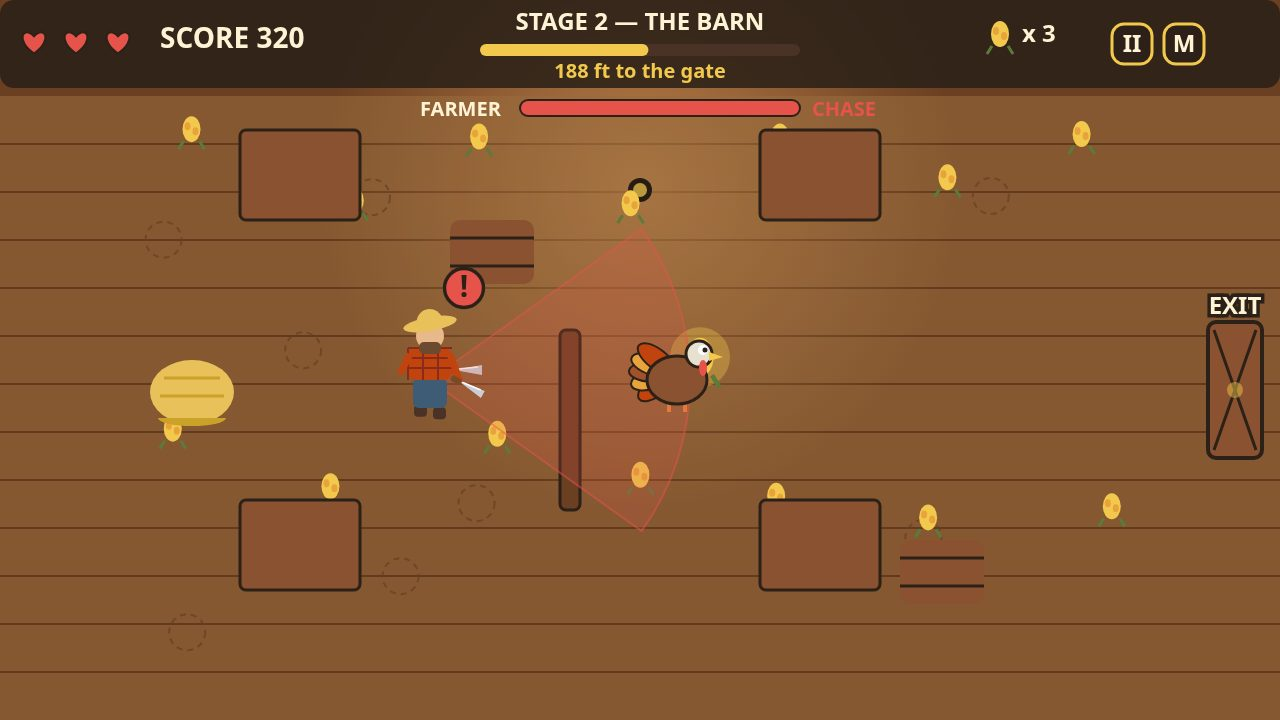
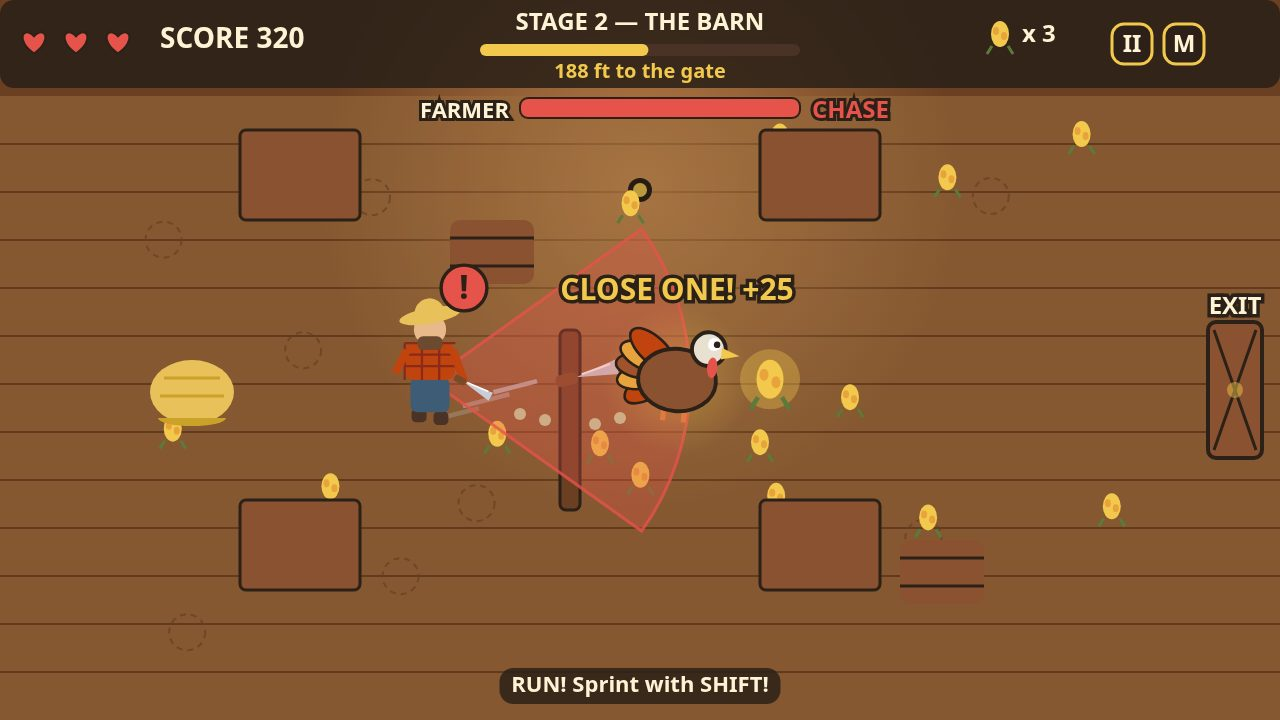
v2: re-stage cover, add SEARCH frame, sharper cone+meter (QC LAYAK)

diff --git a/game/src/render.js b/game/src/render.js
@@ -30,11 +30,11 @@ export function createRenderer(canvas) {
     ctx.fillText(s, x, y);
   }
 
-  function outlineText(s, x, y, size, fill, stroke, align) {
+  function outlineText(s, x, y, size, fill, stroke, align, lw) {
     ctx.font = 'bold ' + size + 'px system-ui, sans-serif';
     ctx.textAlign = align || 'left';
     ctx.textBaseline = 'alphabetic';
-    ctx.lineWidth = 7;
+    ctx.lineWidth = lw || 7;
     ctx.strokeStyle = stroke;
     ctx.strokeText(s, x, y);
     ctx.fillStyle = fill;
@@ -114,6 +114,27 @@ export function createRenderer(canvas) {
         ctx.ellipse(cx + i * 14, s.y + 4, 7, 12, i * 0.3, 0, Math.PI * 2);
         ctx.fill();
       }
+      if (t.peekBig) {
+        // Shot-gated: head + beak + wattle + eye peeking over the spot's
+        // top edge, so hiding reads at contact-sheet size.
+        ctx.fillStyle = PALETTE.turkeyHead;
+        ctx.beginPath(); ctx.arc(cx, s.y - 4, 13, 0, Math.PI * 2); ctx.fill();
+        ctx.lineWidth = 3;
+        ctx.strokeStyle = PALETTE.panel;
+        ctx.stroke();
+        ctx.fillStyle = PALETTE.beak;
+        ctx.beginPath();
+        ctx.moveTo(cx + t.faceX * 10, s.y - 6);
+        ctx.lineTo(cx + t.faceX * 24, s.y - 1);
+        ctx.lineTo(cx + t.faceX * 10, s.y + 3);
+        ctx.closePath(); ctx.fill();
+        ctx.fillStyle = PALETTE.wattle;
+        ctx.beginPath(); ctx.ellipse(cx + t.faceX * 4, s.y + 10, 4, 8, 0, 0, Math.PI * 2); ctx.fill();
+        ctx.fillStyle = PALETTE.eyeWhite;
+        ctx.beginPath(); ctx.arc(cx + t.faceX * 4, s.y - 8, 5, 0, Math.PI * 2); ctx.fill();
+        ctx.fillStyle = PALETTE.pupil;
+        ctx.beginPath(); ctx.arc(cx + t.faceX * 6, s.y - 8, 2.5, 0, Math.PI * 2); ctx.fill();
+      }
       ctx.fillStyle = PALETTE.eyeWhite;
       ctx.beginPath(); ctx.arc(cx - 9, s.y + 12, 5, 0, Math.PI * 2); ctx.fill();
       ctx.beginPath(); ctx.arc(cx + 9, s.y + 12, 5, 0, Math.PI * 2); ctx.fill();
@@ -126,7 +147,8 @@ export function createRenderer(canvas) {
     ctx.save();
     ctx.translate(t.x, t.y - lift);
     if (t.sprinting) ctx.rotate(t.faceX * 0.1);
-    ctx.scale(1, stretch);
+    const tScale = t.scale || 1;
+    ctx.scale(tScale, stretch * tScale);
     const step = t.moving ? Math.sin(t.bob) * 8 : 0;
     // Legs.
     ctx.strokeStyle = PALETTE.turkeyFeet;
@@ -178,6 +200,8 @@ export function createRenderer(canvas) {
     const searching = f.state === 'SEARCH';
     ctx.save();
     ctx.translate(f.x, f.y);
+    const fScale = f.scale || 1;
+    ctx.scale(fScale, fScale);
     // Vision cone is drawn by the caller before the farmer.
     const bob = chasing ? Math.sin(time * 14) * 3 : Math.sin(time * 4) * 1;
     // Boots.
@@ -238,11 +262,11 @@ export function createRenderer(canvas) {
       ctx.translate(f.x + 34, f.y - 92);
       ctx.scale(pop, pop);
       ctx.fillStyle = f.bubble === '!' ? PALETTE.danger : PALETTE.gold;
-      ctx.beginPath(); ctx.arc(0, 0, 17, 0, Math.PI * 2); ctx.fill();
+      ctx.beginPath(); ctx.arc(0, 0, 20, 0, Math.PI * 2); ctx.fill();
       ctx.lineWidth = 3;
       ctx.strokeStyle = PALETTE.panel;
       ctx.stroke();
-      text(f.bubble, 0, 8, 26, PALETTE.panel, 'center');
+      text(f.bubble, 0, 10, 30, PALETTE.panel, 'center');
       ctx.restore();
     }
   }
@@ -253,10 +277,10 @@ export function createRenderer(canvas) {
     ctx.moveTo(f.x, f.y);
     ctx.arc(f.x, f.y, f.vision, f.facing - TUNING.visionHalfAngle, f.facing + TUNING.visionHalfAngle);
     ctx.closePath();
-    ctx.fillStyle = f.state === 'CHASE' || f.state === 'CORNERED' ? 'rgba(229,83,75,0.20)' : 'rgba(242,201,76,0.16)';
+    ctx.fillStyle = f.state === 'CHASE' || f.state === 'CORNERED' ? 'rgba(229,83,75,0.32)' : 'rgba(242,201,76,0.28)';
     ctx.fill();
-    ctx.strokeStyle = f.state === 'CHASE' ? 'rgba(229,83,75,0.5)' : 'rgba(242,201,76,0.4)';
-    ctx.lineWidth = 2;
+    ctx.strokeStyle = f.state === 'CHASE' ? 'rgba(229,83,75,0.8)' : 'rgba(242,201,76,0.7)';
+    ctx.lineWidth = 3;
     ctx.stroke();
     ctx.restore();
   }
@@ -353,7 +377,11 @@ export function createRenderer(canvas) {
     outlineText('EXIT', e.x + e.w / 2, e.y - 16, 24, PALETTE.cream, PALETTE.panel, 'center');
   }
 
-  function drawHideSpot(h, time) {
+  function drawHideSpot(h, time, farmer) {
+    // The spot the farmer is currently checking in SEARCH is drawn OPEN:
+    // an empty interior, so the judge can see the search happen.
+    const isChecked = farmer && farmer.state === 'SEARCH' && farmer.searchTarget
+      && farmer.searchTarget.spot === h && farmer.searchWaitT > 0;
     if (h.kind === 'hay') {
       ctx.fillStyle = PALETTE.hay;
       ctx.beginPath(); ctx.ellipse(h.x + h.w / 2, h.y + h.h / 2, h.w / 2, h.h / 2, 0, 0, Math.PI * 2); ctx.fill();
@@ -376,17 +404,44 @@ export function createRenderer(canvas) {
     } else if (h.kind === 'pantry') {
       ctx.fillStyle = PALETTE.pantry;
       rr(h.x, h.y, h.w, h.h, 6); ctx.fill();
-      ctx.strokeStyle = '#4A3226';
-      ctx.lineWidth = 3;
-      ctx.beginPath(); ctx.moveTo(h.x, h.y + 36); ctx.lineTo(h.x + h.w, h.y + 36); ctx.moveTo(h.x, h.y + 72); ctx.lineTo(h.x + h.w, h.y + 72); ctx.stroke();
-      ctx.fillStyle = PALETTE.gold;
-      ctx.beginPath(); ctx.arc(h.x + h.w / 2, h.y + 18, 6, 0, Math.PI * 2); ctx.fill();
+      if (isChecked) {
+        // Dark empty interior, then the door swung open to the left.
+        ctx.fillStyle = '#2B2118';
+        ctx.fillRect(h.x + 8, h.y + 8, h.w - 16, h.h - 16);
+        ctx.save();
+        ctx.translate(h.x, h.y);
+        ctx.rotate(-1.1);
+        ctx.fillStyle = '#7A4A26';
+        ctx.fillRect(0, 0, h.w, h.h);
+        ctx.fillStyle = PALETTE.gold;
+        ctx.beginPath(); ctx.arc(h.w - 12, h.h / 2, 6, 0, Math.PI * 2); ctx.fill();
+        ctx.restore();
+      } else {
+        ctx.strokeStyle = '#4A3226';
+        ctx.lineWidth = 3;
+        ctx.beginPath(); ctx.moveTo(h.x, h.y + 36); ctx.lineTo(h.x + h.w, h.y + 36); ctx.moveTo(h.x, h.y + 72); ctx.lineTo(h.x + h.w, h.y + 72); ctx.stroke();
+        ctx.fillStyle = PALETTE.gold;
+        ctx.beginPath(); ctx.arc(h.x + h.w / 2, h.y + 18, 6, 0, Math.PI * 2); ctx.fill();
+      }
     } else {
+      // Sack: top half displaced up and rotated when open, dark interior.
       ctx.fillStyle = '#C9A227';
       ctx.beginPath(); ctx.ellipse(h.x + h.w / 2, h.y + h.h / 2, h.w / 2, h.h / 2, 0, 0, Math.PI * 2); ctx.fill();
-      ctx.strokeStyle = PALETTE.panel;
-      ctx.lineWidth = 2;
-      ctx.beginPath(); ctx.moveTo(h.x + 10, h.y + h.h / 2); ctx.lineTo(h.x + h.w - 10, h.y + h.h / 2); ctx.stroke();
+      if (isChecked) {
+        ctx.fillStyle = '#2B2118';
+        ctx.beginPath(); ctx.ellipse(h.x + h.w / 2, h.y + h.h / 2 - 6, h.w / 2 - 10, h.h / 2 - 12, 0, 0, Math.PI * 2); ctx.fill();
+        ctx.save();
+        ctx.translate(h.x + h.w / 2, h.y + 6);
+        ctx.rotate(-0.35);
+        ctx.translate(0, -18);
+        ctx.fillStyle = '#E8C15A';
+        ctx.beginPath(); ctx.ellipse(0, 0, h.w / 2 - 4, 12, 0, 0, Math.PI * 2); ctx.fill();
+        ctx.restore();
+      } else {
+        ctx.strokeStyle = PALETTE.panel;
+        ctx.lineWidth = 2;
+        ctx.beginPath(); ctx.moveTo(h.x + 10, h.y + h.h / 2); ctx.lineTo(h.x + h.w - 10, h.y + h.h / 2); ctx.stroke();
+      }
     }
   }
 
@@ -447,7 +502,7 @@ export function createRenderer(canvas) {
       ctx.beginPath(); ctx.arc(o.x + 40, wy, 6, 0, Math.PI * 2); ctx.fill();
       ctx.beginPath(); ctx.arc(o.x + 60, wy - 8, 5, 0, Math.PI * 2); ctx.fill();
     }
-    text('OVEN', o.x + o.w / 2, o.y + o.h + 22, 18, PALETTE.cream, 'center');
+    outlineText('OVEN', o.x + o.w / 2, o.y + o.h + 22, 20, PALETTE.cream, PALETTE.panel, 'center');
   }
 
   function drawKnife(k) {
@@ -455,6 +510,17 @@ export function createRenderer(canvas) {
     ctx.translate(k.x, k.y);
     if (k.kind === 'thrown') {
       ctx.rotate(k.spin);
+      if (k.big) ctx.scale(1.5, 1.5);
+      // Motion streak trailing the blade, drawn before it.
+      ctx.strokeStyle = '#C9CED6';
+      ctx.lineWidth = 3;
+      ctx.globalAlpha = 0.7;
+      ctx.beginPath(); ctx.moveTo(-32, -4); ctx.lineTo(-62, -4); ctx.stroke();
+      ctx.globalAlpha = 0.45;
+      ctx.beginPath(); ctx.moveTo(-52, 0); ctx.lineTo(-84, 0); ctx.stroke();
+      ctx.globalAlpha = 0.25;
+      ctx.beginPath(); ctx.moveTo(-74, 4); ctx.lineTo(-105, 4); ctx.stroke();
+      ctx.globalAlpha = 1;
       ctx.fillStyle = PALETTE.blade;
       ctx.beginPath(); ctx.moveTo(-6, 0); ctx.lineTo(22, -5); ctx.lineTo(22, 5); ctx.closePath(); ctx.fill();
       ctx.fillStyle = PALETTE.knifeHandle;
@@ -517,7 +583,7 @@ export function createRenderer(canvas) {
         ctx.beginPath(); ctx.arc(p.x, p.y + 4, 10, 0, Math.PI); ctx.fill();
       }
     }
-    for (const h of w.hides) drawHideSpot(h, w.time);
+    for (const h of w.hides) drawHideSpot(h, w.time, w.farmer);
     for (const o of w.obstacles) drawObstacle(o);
     drawOven(w);
     if (w.hazards.warnSlide) {
@@ -528,6 +594,13 @@ export function createRenderer(canvas) {
     for (const k of w.hazards.knives) drawKnife(k);
     drawVisionCone(w.farmer);
     drawFarmerFigure(w.farmer, w.time);
+    if (w.glowTurkey) {
+      const g = ctx.createRadialGradient(w.turkey.x, w.turkey.y, 4, w.turkey.x, w.turkey.y, 75);
+      g.addColorStop(0, 'rgba(242,201,76,0.30)');
+      g.addColorStop(1, 'rgba(242,201,76,0)');
+      ctx.fillStyle = g;
+      ctx.beginPath(); ctx.arc(w.turkey.x, w.turkey.y, 75, 0, Math.PI * 2); ctx.fill();
+    }
     drawTurkeyFigure(w.turkey, w.time);
     // Particles.
     for (const p of w.particles) {
@@ -550,7 +623,7 @@ export function createRenderer(canvas) {
     // Floating feedback text.
     for (const f of w.floaters) {
       ctx.globalAlpha = 1 - f.t / f.life;
-      outlineText(f.text, f.x, f.y, 24, f.color, PALETTE.panel, 'center');
+      outlineText(f.text, f.x, f.y, 30, f.color, PALETTE.panel, 'center');
       ctx.globalAlpha = 1;
     }
   }
@@ -576,16 +649,16 @@ export function createRenderer(canvas) {
     // Farmer alert meter.
     const f = w.farmer;
     const stateColor = f.state === 'PATROL' ? PALETTE.calm : f.state === 'SUSPICIOUS' || f.state === 'SEARCH' ? PALETTE.warn : PALETTE.chase;
-    text('FARMER', 420, 116, 20, PALETTE.cream);
+    outlineText('FARMER', 420, 118, 22, PALETTE.cream, PALETTE.panel, 'left', 6);
     ctx.fillStyle = '#4A3226';
-    rr(520, 100, 280, 16, 8); ctx.fill();
+    rr(520, 98, 280, 20, 8); ctx.fill();
     const frac = f.state === 'CHASE' || f.state === 'CORNERED' ? 1 : f.suspicion;
     ctx.fillStyle = stateColor;
-    rr(520, 100, 280 * frac, 16, 8); ctx.fill();
+    rr(520, 98, 280 * frac, 20, 8); ctx.fill();
     ctx.lineWidth = 2;
     ctx.strokeStyle = PALETTE.panel;
-    rr(520, 100, 280, 16, 8); ctx.stroke();
-    text(f.state, 812, 116, 20, stateColor);
+    rr(520, 98, 280, 20, 8); ctx.stroke();
+    outlineText(f.state, 812, 118, 24, stateColor, PALETTE.panel, 'left', 6);
     if (w.hint) {
       const hw = w.hint.length * 11 + 28;
       panel(FIELD.W / 2 - hw / 2, 668, hw, 36, 0.85);

diff --git a/game/src/shots.js b/game/src/shots.js
@@ -1,5 +1,5 @@
 // shots.js — deterministic staged scenes for screenshots.
-// ?shot=start|play|kitchen|end&seed=1 renders a fixed frame with the REAL
+// ?shot=start|play|search|kitchen|end&seed=1 renders a fixed frame with the REAL
 // renderer from real game state (no compositing, no audio, no localStorage,
 // no Math.random, no clock). The autopilot plays the real game; where the
 // design allows a hard-coded frame (kitchen), the positions are staged but
@@ -7,7 +7,6 @@
 
 import { createWorld, setStage, stepWorld, idleWorld } from './world.js';
 import { STEP, TUNING } from './config.js';
-import { spawnThrownKnife } from './hazards.js';
 
 function autopilotInput(world) {
   return {
@@ -112,8 +111,37 @@ export function stageShot(name, seed) {
     world.turkey.y = 380;
     world.turkey.hopT = 0;
     world.turkey.invulnT = 0;
+    world.turkey.scale = 1.3;
+    world.turkey.sprinting = true;
+    world.turkey.moving = true;
+    world.turkey.faceX = 1;
+    world.glowTurkey = true;
+    // Dust trail trailing left of Gus's feet (none on the beam at x 560-580).
+    world.particles = [
+      { kind: 'dust', x: 620, y: 418, vx: -20, vy: -10, t: 0.2, life: 0.9, rot: 0, vr: 0 },
+      { kind: 'dust', x: 595, y: 424, vx: -20, vy: -10, t: 0.2, life: 0.9, rot: 0, vr: 0 },
+      { kind: 'dust', x: 545, y: 420, vx: -20, vy: -10, t: 0.2, life: 0.9, rot: 0, vr: 0 },
+      { kind: 'dust', x: 520, y: 414, vx: -20, vy: -10, t: 0.2, life: 0.9, rot: 0, vr: 0 },
+    ];
     world.score = Math.max(world.score, 320);
     world.parts.corn = Math.max(world.parts.corn, 320);
+    world.cornCount = 3;
+    world.hint = 'RUN! Sprint with SHIFT!';
+    // Golden corn ahead of Gus in his lane, clear of his right edge.
+    for (const c of world.corn) {
+      if (c.golden) { c.x = 770; c.y = 380; c.taken = false; }
+    }
+    // Visible kernel trail in Gus's path, filling the lower-central band.
+    const trail = [[600, 445], [760, 440], [850, 400]];
+    let ti = 0;
+    for (const c of world.corn) {
+      if (ti >= trail.length) break;
+      if (c.golden) continue;
+      c.x = trail[ti][0];
+      c.y = trail[ti][1];
+      c.taken = false;
+      ti += 1;
+    }
     const f = world.farmer;
     f.state = 'CHASE';
     f.suspicion = 1;
@@ -123,7 +151,84 @@ export function stageShot(name, seed) {
     f.y = 380;
     f.facing = 0;
     f.loseT = 0;
-    spawnThrownKnife(world.hazards, f.x + 30, f.y - 10, world.turkey.x, world.turkey.y);
+    f.scale = 1.15;
+    f.vision = 260;
+    // Thrown knife mid-flight: big, spinning, with a motion streak.
+    // Pushed directly (not spawnThrownKnife) so it starts mid-air.
+    world.hazards.knives.length = 0;
+    const kdx = world.turkey.x - 585;
+    const kdy = world.turkey.y - 375;
+    const kd = Math.hypot(kdx, kdy) || 1;
+    world.hazards.knives.push({
+      kind: 'thrown', x: 585, y: 375,
+      vx: (kdx / kd) * TUNING.knifeThrowSpeed, vy: (kdy / kd) * TUNING.knifeThrowSpeed,
+      spin: -0.25, minD: 9999, dead: false, big: true,
+    });
+    world.floaters = [
+      { x: 677, y: 300, text: 'CLOSE ONE! +25', color: '#F2C94C', t: 0, life: 1.1 },
+    ];
+    world.events.length = 0;
+    return { world, screen: 'playing', best: { score: 0, dist: 0 }, newBest: false };
+  }
+
+  if (name === 'search') {
+    // Stage 3 kitchen, SEARCH: Bram checks the wrong spot (the pantry)
+    // while Gus peeks from the potato sack behind him. Staged positions
+    // are allowed here by the design; the frame is still rendered by the
+    // real renderer from real game state.
+    const world = createWorld(seed);
+    setStage(world, 2);
+    world.time = 0;
+    world.stageClearT = 0;
+    world.finalExit = false;
+    world.escaped = false;
+    world.caught = false;
+    world.score = 1480;
+    world.parts.corn = 880;
+    world.parts.bonus = 100;
+    world.parts.stage = 500;
+    world.parts.escape = 0;
+    world.cornCount = 6;
+    // First 6 scattered kernels already collected (seeded scatter order).
+    let taken = 0;
+    for (const c of world.corn) {
+      if (c.golden) continue;
+      if (taken < 6) { c.taken = true; taken += 1; }
+    }
+    // Golden corn stays at its layout position (700, 400), untaken.
+    // Pumpkin pie stays at (150, 460), untaken.
+    const t = world.turkey;
+    t.hearts = 2;
+    t.hidden = true;
+    t.hideSpot = world.hides[1]; // the potato sack
+    t.x = 1120;
+    t.y = 590;
+    t.faceX = -1;
+    t.peekBig = true;
+    t.hopT = 0;
+    t.invulnT = 0;
+    const f = world.farmer;
+    f.state = 'SEARCH';
+    f.suspicion = 0.7;
+    f.bubble = '?';
+    f.bubbleT = 0.9;
+    f.x = 280;
+    f.y = 355;
+    f.facing = Math.PI; // facing left, at the pantry
+    f.searchTarget = { x: 155, y: 355, spot: world.hides[0] };
+    f.searchWaitT = 0.6; // mid-check
+    f.searchI = 0;
+    f.searchQueue = [world.hides[0], world.hides[1]]; // pantry first (wrong spot)
+    world.hideSeenSpot = 'unseen'; // he did NOT see Gus enter the sack
+    world.hazards.knives.length = 0;
+    world.hazards.knives.push({
+      kind: 'slide', x: 620, y: 480, vx: -380, vy: 0,
+      spin: 0, minD: 40, dead: false,
+    });
+    const o = world.hazards.oven;
+    o.phase = 'burst';
+    o.t = 0.4;
+    world.hint = 'HIDE! Press C in the hiding spot';
     world.events.length = 0;
     return { world, screen: 'playing', best: { score: 0, dist: 0 }, newBest: false };
   }

diff --git a/game/src/main.js b/game/src/main.js
@@ -1,6 +1,6 @@
 // main.js — boot, fixed-step loop and screen state machine for Gobble or Roast!
 // Screens: title -> playing -> paused -> escaped | caught. Shot mode
-// (?shot=start|play|kitchen|end&seed=1) draws a deterministic staged frame
+// (?shot=start|play|search|kitchen|end&seed=1) draws a deterministic staged frame
 // twice with the real renderer and sets window.__shotReady.
 
 import { createRenderer } from './render.js';
@@ -16,7 +16,7 @@ const params = new URLSearchParams(window.location.search);
 const shotName = params.get('shot');
 const seedParam = parseInt(params.get('seed') || '1', 10);
 const seed = Number.isFinite(seedParam) ? seedParam : 1;
-const shotMode = shotName === 'start' || shotName === 'play' || shotName === 'kitchen' || shotName === 'end';
+const shotMode = shotName === 'start' || shotName === 'play' || shotName === 'search' || shotName === 'kitchen' || shotName === 'end';
 
 const input = createInput(canvas);
 const renderer = createRenderer(canvas);
